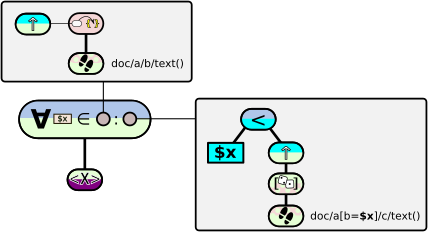
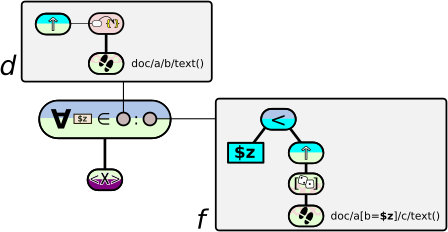
Part on XML done; closes #11

diff --git a/markdown/palettes/README.md b/markdown/palettes/README.md
@@ -1165,18 +1165,68 @@ System.out.println(
 We take a few shortcuts in this excerpt: since `XPathFunction` is a descendent of <!--\index{UnaryFunction@\texttt{UnaryFunction}} \texttt{UnaryFunction}-->`UnaryFunction`<!--/i-->, is has an additional method called <!--\index{UnaryFunction@\texttt{UnaryFunction}!getValue@\texttt{getValue}} \texttt{getValue}-->`getValue()`<!--/i-->`getValue()`<!--/i--> that does away with the usual input/output arrays, and makes for a shorter program. The output of the program is:
 
 ```
-[<d>123</d>]
+[123]
 [<b>1</b>, <b>2</b>]
 [<c>15</c>]
 ```
 
-The result of the first path is straightforward; the latter two warrant further explanation. The meaning of the second path expression (`doc/a/b`) should be interpreted as: "get all the elements named `<b>` that are inside an element named `<a>`, itself inside an element named `<doc>`". There are indeed two such elements in the input document, but note that the two `<b>`'s do not need to have the same parent `<a>`.
+The result of the first path is straightforward; however, note the use of `text()` at the end of the path. This indicates to extract the textual content inside the last element. Hence, instead of returning `<d>123</d>` the expression simply returns `123`. It is important to know that `123` is not a `String` object; since the result of an XPath expression is always a collection of `XmlElement`s, the value is encased in a special descendent of this class, called `TextElement`. The textual value that this element contains can be queried using method `toString()`.
+
+The meaning of the second path expression (`doc/a/b`) should be interpreted as: "get all the elements named `<b>` that are inside an element named `<a>`, itself inside an element named `<doc>`". There are indeed two such elements in the input document, but note that the two `<b>`'s do not need to have the same parent `<a>`.
 
 Finally, the third path expression introduces a special notation called a *predicate*, written inside brackets. A predicate is an additional condition on an element, which must be true for this element to be considered in the path. In this example, the condition is that element `a` must have a child called `b` whose textual contents is the value `2`. Therefore, the path expression can be interpreted as: "get all the elements named `<c>` that are inside an element named `<a>` which has a child `<b>` containing value 2, and which is inside an element named `<doc>`. There is indeed a single element satisfying this condition in the document, which is `<c>15</c>`.
 
-Again, the purpose of this section is not to provide an in-depth reference on XML or XPath, which turns out to be a full-fledged query language for XML documents (BeepBeep's palette supports only the basic functionalities of XPath). A last remark must be made on the fact that predicates can contain references to values fetched from a <!--\index{processor!context} \texttt{Context}-->`Context`<!--/i--> object. The name of a context key is prefixed by a dollar sign. This is exemplified by the following function tree:
+Again, the purpose of this section is not to provide an in-depth reference on XML or XPath, which turns out to be a full-fledged query language for XML documents (BeepBeep's palette supports only the basic functionalities of XPath). A last remark must be made on the fact that predicates can contain references to values fetched from a <!--\index{processor!context} \texttt{Context}-->`Context`<!--/i--> object. The name of a context key is prefixed by a dollar sign. This is exemplified by the following code:
+
+``` java
+FunctionTree d = new FunctionTree(
+    new Bags.ApplyToAll(Numbers.numberCast),
+    new XPathFunction("doc/a/b/text()"));
+FunctionTree f = new FunctionTree(Numbers.isLessThan,
+    new ContextVariable("z"),
+    new FunctionTree(Numbers.numberCast,
+        new FunctionTree(Bags.anyElement,
+            new XPathFunction("doc/a[b=$z]/c/text()"))));
+ForAll fa = new ForAll("z", d, f);
+```
+[⚓](https://github.com/liflab/beepbeep-3-examples/blob/master/Source/src/xml/ContextExample.java#L38)
+
+
+We first create a function *d* that extracts elements according to the XPath expression `doc/a/b/text()`; this produces a set of `TextElement`s. We then call the `Bags` function <!--\index{Bags@\texttt{Bags}!ApplyToAll@\texttt{ApplyToAll}} \texttt{ApplyToAll}-->`ApplyToAll`<!--/i-->, which is instructed to cast the elements of the set into `Number`s (by applying <!--\index{Numbers@\texttt{Numbers}!NumberCast@\texttt{NumberCast}} \texttt{NumberCast}-->`NumberCast`<!--/i--> on each of them). The end result is that *d* takes as input an XML document, and returns (as numbers) the set of all values found inside a `<b>` tag.
+
+The second line of code creates another function *f*, which checks that the value of a context variable called *x* is less than another expression on the right-hand side. This expression evaluates the XPath expression `doc/a[b=$z]/c/text()`; note the presence of `$z` in the predicate, which is expected to be replaced by the value of *z* in the current context at the moment the function is evaluated. As before, this expression returns a set of `TextElement`s.
+
+Let us assume that the input documents always have a single `<c>` element inside an `<a>`. Therefore, the result of the expression will always be a *singleton*: a set with exactly one element. We can take this element out of the set by applying the `Bags` function <!--\index{Bags@\texttt{Bags}!AnyElement@\texttt{AnyElement}} \texttt{AnyElement}-->`AnyElement`<!--/i-->, which picks an arbitrary element of a collection. The element is then cast into a number; this is the value that is compared to *x* in the topmost `IsLessThan` function.
+
+Finally, we put functions *d* and *f* inside a <!--\index{ForAll@\texttt{ForAll}} \texttt{ForAll}-->`ForAll`<!--/i--> quantifier. Graphically, this can be represented in the following figure:
 
 ![Using an XPath expression inside a quantifier](ContextExample.png)
+
+Given an XML document *x* as input, the quantifier:
+
+- evalutes function *d* on this document; in this case, it produces a set of numbers corresponding to all the values inside a `<b>` tag;
+- for each number *n*, it creates a new copy of *f*, associates the value *n* to a context key called *z*, and evaluates *f*(*x*);
+- it finally computes the logical conjunction of all the returned values.
+
+Informally, object `fa` evaluates the condition: "inside a document, the value of every `<b>` tag is less than the value of the `<c>` tag that is located under the same `<a>` parent". We can try this function on a simple document:
+
+``` java
+FunctionTree d = new FunctionTree(
+    new Bags.ApplyToAll(Numbers.numberCast),
+    new XPathFunction("doc/a/b/text()"));
+FunctionTree f = new FunctionTree(Numbers.isLessThan,
+    new ContextVariable("z"),
+    new FunctionTree(Numbers.numberCast,
+        new FunctionTree(Bags.anyElement,
+            new XPathFunction("doc/a[b=$z]/c/text()"))));
+ForAll fa = new ForAll("z", d, f);
+```
+[⚓](https://github.com/liflab/beepbeep-3-examples/blob/master/Source/src/xml/ContextExample.java#L38)
+
+
+The result produced by `fa` is `true`, as expected. As an exercise, try replacing `2` by `20` in the second `<b>` tag; you shall see that the quantifier returns the value `false`.
+
+This last example was slightly more involved. However, it gives a foretaste of the wide range of capabilities that become available when one starts mixing objects from multiple palettes. The next chapter shall push the envelope even further on this respect.
 
 ## Exercises
 

diff --git a/pre-markdown/palettes/README.md b/pre-markdown/palettes/README.md
@@ -751,18 +751,44 @@ However, there may be multiple elements of the same name; for example, the path 
 We take a few shortcuts in this excerpt: since `XPathFunction` is a descendent of <!--\index{UnaryFunction@\texttt{UnaryFunction}} \texttt{UnaryFunction}-->`UnaryFunction`<!--/i-->, is has an additional method called <!--\index{UnaryFunction@\texttt{UnaryFunction}!getValue@\texttt{getValue}} \texttt{getValue}-->`getValue()`<!--/i-->`getValue()`<!--/i--> that does away with the usual input/output arrays, and makes for a shorter program. The output of the program is:
 
 ```
-[<d>123</d>]
+[123]
 [<b>1</b>, <b>2</b>]
 [<c>15</c>]
 ```
 
-The result of the first path is straightforward; the latter two warrant further explanation. The meaning of the second path expression (`doc/a/b`) should be interpreted as: "get all the elements named `<b>` that are inside an element named `<a>`, itself inside an element named `<doc>`". There are indeed two such elements in the input document, but note that the two `<b>`'s do not need to have the same parent `<a>`.
+The result of the first path is straightforward; however, note the use of `text()` at the end of the path. This indicates to extract the textual content inside the last element. Hence, instead of returning `<d>123</d>` the expression simply returns `123`. It is important to know that `123` is not a `String` object; since the result of an XPath expression is always a collection of `XmlElement`s, the value is encased in a special descendent of this class, called `TextElement`. The textual value that this element contains can be queried using method `toString()`.
+
+The meaning of the second path expression (`doc/a/b`) should be interpreted as: "get all the elements named `<b>` that are inside an element named `<a>`, itself inside an element named `<doc>`". There are indeed two such elements in the input document, but note that the two `<b>`'s do not need to have the same parent `<a>`.
 
 Finally, the third path expression introduces a special notation called a *predicate*, written inside brackets. A predicate is an additional condition on an element, which must be true for this element to be considered in the path. In this example, the condition is that element `a` must have a child called `b` whose textual contents is the value `2`. Therefore, the path expression can be interpreted as: "get all the elements named `<c>` that are inside an element named `<a>` which has a child `<b>` containing value 2, and which is inside an element named `<doc>`. There is indeed a single element satisfying this condition in the document, which is `<c>15</c>`.
 
-Again, the purpose of this section is not to provide an in-depth reference on XML or XPath, which turns out to be a full-fledged query language for XML documents (BeepBeep's palette supports only the basic functionalities of XPath). A last remark must be made on the fact that predicates can contain references to values fetched from a <!--\index{processor!context} \texttt{Context}-->`Context`<!--/i--> object. The name of a context key is prefixed by a dollar sign. This is exemplified by the following function tree:
+Again, the purpose of this section is not to provide an in-depth reference on XML or XPath, which turns out to be a full-fledged query language for XML documents (BeepBeep's palette supports only the basic functionalities of XPath). A last remark must be made on the fact that predicates can contain references to values fetched from a <!--\index{processor!context} \texttt{Context}-->`Context`<!--/i--> object. The name of a context key is prefixed by a dollar sign. This is exemplified by the following code:
+
+{@snipm xml/ContextExample.java}{/}
+
+We first create a function *d* that extracts elements according to the XPath expression `doc/a/b/text()`; this produces a set of `TextElement`s. We then call the `Bags` function <!--\index{Bags@\texttt{Bags}!ApplyToAll@\texttt{ApplyToAll}} \texttt{ApplyToAll}-->`ApplyToAll`<!--/i-->, which is instructed to cast the elements of the set into `Number`s (by applying <!--\index{Numbers@\texttt{Numbers}!NumberCast@\texttt{NumberCast}} \texttt{NumberCast}-->`NumberCast`<!--/i--> on each of them). The end result is that *d* takes as input an XML document, and returns (as numbers) the set of all values found inside a `<b>` tag.
+
+The second line of code creates another function *f*, which checks that the value of a context variable called *x* is less than another expression on the right-hand side. This expression evaluates the XPath expression `doc/a[b=$z]/c/text()`; note the presence of `$z` in the predicate, which is expected to be replaced by the value of *z* in the current context at the moment the function is evaluated. As before, this expression returns a set of `TextElement`s.
+
+Let us assume that the input documents always have a single `<c>` element inside an `<a>`. Therefore, the result of the expression will always be a *singleton*: a set with exactly one element. We can take this element out of the set by applying the `Bags` function <!--\index{Bags@\texttt{Bags}!AnyElement@\texttt{AnyElement}} \texttt{AnyElement}-->`AnyElement`<!--/i-->, which picks an arbitrary element of a collection. The element is then cast into a number; this is the value that is compared to *x* in the topmost `IsLessThan` function.
+
+Finally, we put functions *d* and *f* inside a <!--\index{ForAll@\texttt{ForAll}} \texttt{ForAll}-->`ForAll`<!--/i--> quantifier. Graphically, this can be represented in the following figure; the parts of the image that correspond to functions *d* and *f* have been identified.
 
 {@img doc-files/xml/ContextExample.png}{Using an XPath expression inside a quantifier}{.6}
+
+Given an XML document *x* as input, the quantifier:
+
+- evalutes function *d* on this document; in this case, it produces a set of numbers corresponding to all the values inside a `<b>` tag;
+- for each number *n*, it creates a new copy of *f*, associates the value *n* to a context key called *z*, and evaluates *f*(*x*);
+- it finally computes the logical conjunction of all the returned values.
+
+Informally, object `fa` evaluates the condition: "inside a document, the value of every `<b>` tag is less than the value of the `<c>` tag that is located under the same `<a>` parent". We can try this function on a simple document:
+
+{@snipm xml/ContextExample.java}{/}
+
+The result produced by `fa` is `true`, as expected. As an exercise, try replacing `2` by `20` in the second `<b>` tag; you shall see that the quantifier returns the value `false`.
+
+This last example was slightly more involved. However, it gives a foretaste of the wide range of capabilities that become available when one starts mixing objects from multiple palettes. The next chapter shall push the envelope even further on this respect.
 
 ## Exercises
 
